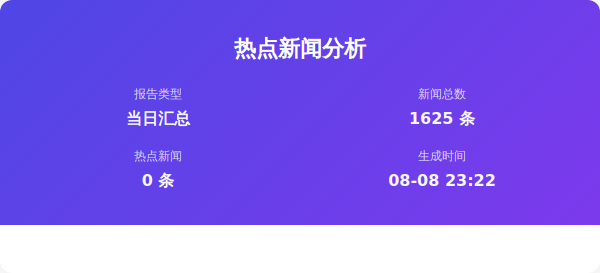
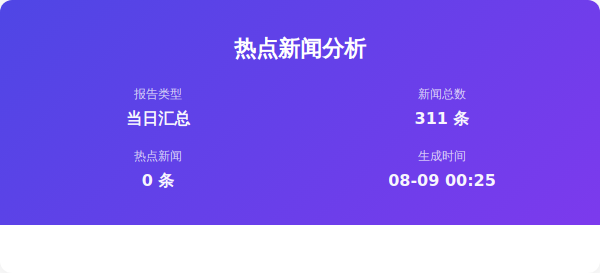
Auto update by GitHub Actions at Sun Aug  9 00:25:58 CST 2026

Changed region(s): [[0.66, 0.4103, 0.81, 0.4689], [0.69, 0.6447, 0.78, 0.674], [0.81, 0.6447, 0.84, 0.674]]

diff --git a/output/2026年08月09日/html/00时25分.html b/output/2026年08月09日/html/00时25分.html
@@ -353,11 +353,11 @@
                 <div class="header-info">
                     <div class="info-item">
                         <span class="info-label">报告类型</span>
-                        <span class="info-value">当日汇总</span>
+                        <span class="info-value">实时分析</span>
                     </div>
                     <div class="info-item">
                         <span class="info-label">新闻总数</span>
-                        <span class="info-value">311 条</span>
+                        <span class="info-value">255 条</span>
                     </div>
                     <div class="info-item">
                         <span class="info-label">热点新闻</span>

diff --git a/output/2026年08月09日/html/当前榜单汇总.html b/output/2026年08月09日/html/当前榜单汇总.html
@@ -353,11 +353,11 @@
                 <div class="header-info">
                     <div class="info-item">
                         <span class="info-label">报告类型</span>
-                        <span class="info-value">当日汇总</span>
+                        <span class="info-value">当前榜单</span>
                     </div>
                     <div class="info-item">
                         <span class="info-label">新闻总数</span>
-                        <span class="info-value">311 条</span>
+                        <span class="info-value">255 条</span>
                     </div>
                     <div class="info-item">
                         <span class="info-label">热点新闻</span>
